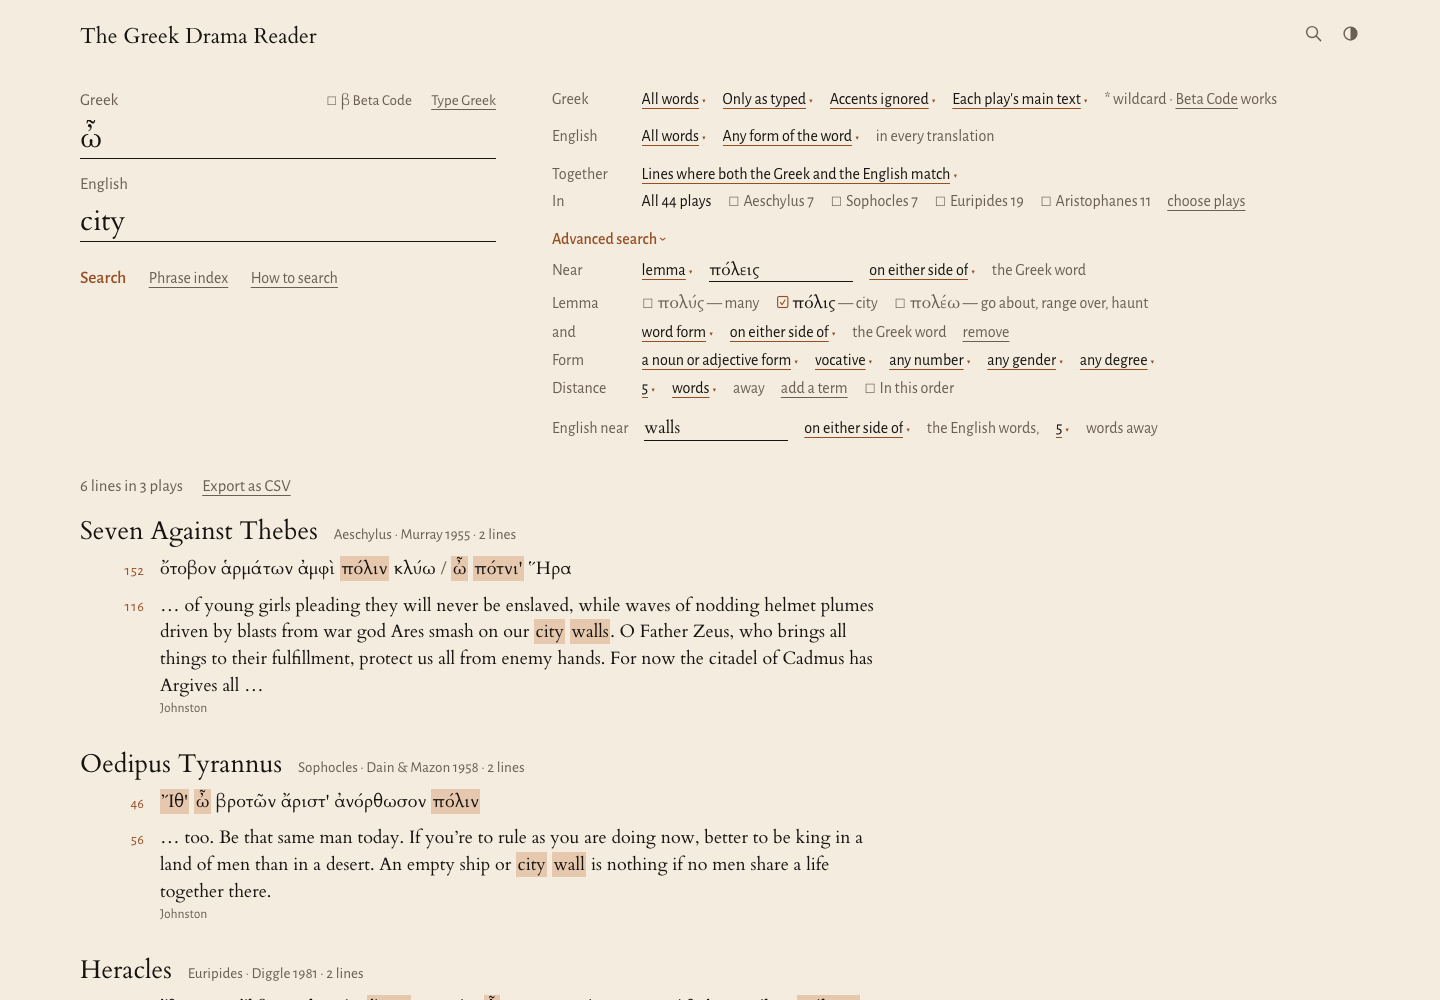
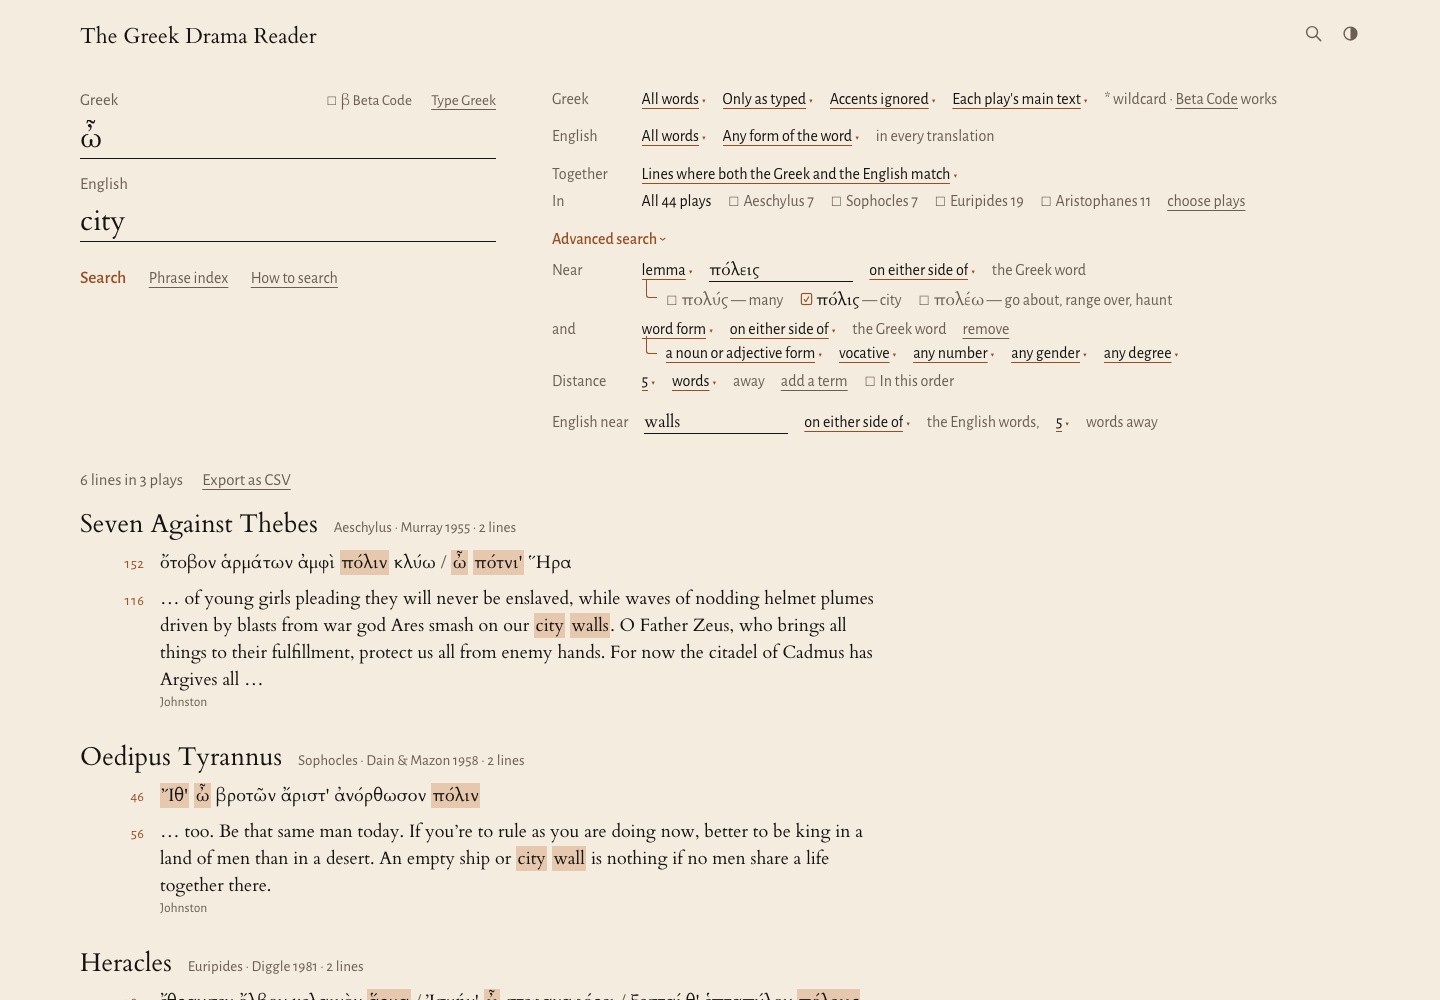
Near: an L ties the headword checks and the grammar choices to "lemma" or "word form"
John (2026-10-26): make clear the checks and the form choices belong to the
chosen kind. The "Lemma" and "Form" labels give way to an L in the clay
dropping from under the choice; wrapped controls stay indented under it.

diff --git a/shared/components/Search.svelte b/shared/components/Search.svelte
@@ -1419,21 +1419,23 @@
             {/if}
           </p>
           {#if nearKind === 'lemma' && nearCands[0]?.cands.length}
-            <p class="row lsj">
-              <span class="mn">Lemma</span>
+            <p class="row lsj sub" role="group" aria-label="Headwords for the lemma">
+              <span class="mn" aria-hidden="true"></span><span class="elbow" aria-hidden="true"></span><span class="sub-items">
               {#each nearCands[0].cands as c (c.fold)}
                 <label class="ck lem" title={c.n ? `${c.n.toLocaleString('en-US')} times in the plays` : undefined}><input type="checkbox" checked={c.on} on:change={() => toggleNearCand(0, c.fold)} /><span lang="grc">{c.heads.join(', ')}</span>{#if c.gloss}<span class="gl">{` — ${c.gloss}`}</span>{/if}</label>
               {/each}
+              </span>
             </p>
           {/if}
           {#if nearKind === 'grammatical'}
-            <p class="row">
-              <span class="mn">Form</span>
+            <p class="row sub" role="group" aria-label="Grammar for the word form">
+              <span class="mn" aria-hidden="true"></span><span class="elbow" aria-hidden="true"></span><span class="sub-items">
               <span class="v"><select aria-label="Form: kind of word" value={shapeClass} on:change={(e) => { shapeClass = e.currentTarget.value as ShapeClass; shape = {}; }}><option value="verb">a verb form</option><option value="noun">a noun or adjective form</option><option value="word">a word class</option></select><i aria-hidden="true">▾</i></span>
               {#each SHAPE_CATS[shapeClass] as cat (cat.key)}
                 <span class="v"><select aria-label={`Form: ${cat.key}`} value={shape[cat.key] ?? ''} on:change={(e) => (shape = { ...shape, [cat.key]: e.currentTarget.value })}><option value="">{cat.any}</option>{#each cat.values as [v, l]}<option value={v}>{l}</option>{/each}</select><i aria-hidden="true">▾</i></span>
               {/each}
               {#if !Object.keys(shapeQuery).length}<span class="mn">choose at least one</span>{/if}
+              </span>
             </p>
           {/if}
           {#if nearKind !== 'none'}
@@ -1449,21 +1451,23 @@
                 <button type="button" class="ln" on:click={() => removeTerm(i)}>remove</button>
               </p>
               {#if t.kind === 'lemma' && nearCands[i + 1]?.cands.length}
-                <p class="row lsj">
-                  <span class="mn">Lemma</span>
+                <p class="row lsj sub" role="group" aria-label={`Term ${i + 3}: headwords for the lemma`}>
+                  <span class="mn" aria-hidden="true"></span><span class="elbow" aria-hidden="true"></span><span class="sub-items">
                   {#each nearCands[i + 1].cands as c (c.fold)}
                     <label class="ck lem" title={c.n ? `${c.n.toLocaleString('en-US')} times in the plays` : undefined}><input type="checkbox" checked={c.on} on:change={() => toggleNearCand(i + 1, c.fold)} /><span lang="grc">{c.heads.join(', ')}</span>{#if c.gloss}<span class="gl">{` — ${c.gloss}`}</span>{/if}</label>
                   {/each}
+                  </span>
                 </p>
               {/if}
               {#if t.kind === 'grammatical'}
-                <p class="row">
-                  <span class="mn">Form</span>
+                <p class="row sub" role="group" aria-label={`Term ${i + 3}: grammar for the word form`}>
+                  <span class="mn" aria-hidden="true"></span><span class="elbow" aria-hidden="true"></span><span class="sub-items">
                   <span class="v"><select aria-label={`Term ${i + 3}: kind of word`} value={t.shapeClass} on:change={(e) => { t.shapeClass = e.currentTarget.value as ShapeClass; t.shape = {}; nearMore = nearMore; }}><option value="verb">a verb form</option><option value="noun">a noun or adjective form</option><option value="word">a word class</option></select><i aria-hidden="true">▾</i></span>
                   {#each SHAPE_CATS[t.shapeClass] as cat (cat.key)}
                     <span class="v"><select aria-label={`Term ${i + 3}: ${cat.key}`} value={t.shape[cat.key] ?? ''} on:change={(e) => { t.shape = { ...t.shape, [cat.key]: e.currentTarget.value }; nearMore = nearMore; }}><option value="">{cat.any}</option>{#each cat.values as [v, l]}<option value={v}>{l}</option>{/each}</select><i aria-hidden="true">▾</i></span>
                   {/each}
                   {#if !Object.keys(shapeQueryOf(t.shapeClass, t.shape)).length}<span class="mn">choose at least one</span>{/if}
+                  </span>
                 </p>
               {/if}
             {/each}
@@ -1700,6 +1704,17 @@
   .adv:focus-visible { outline: 2px solid var(--clay); outline-offset: 2px; }
   @media (prefers-reduced-motion: reduce) { .adv .chev { transition: none; } }
   .adv-rows { display: flex; flex-direction: column; gap: .55rem; }
+  /* A row that belongs to the choice above it ("lemma" or "word form"): an
+     L in the clay drops from under that choice to the row's first control
+     (John, 2026-10-26). The empty label keeps it in the controls' column. */
+  .row.sub { gap: .3rem .9rem; margin-top: -.2rem; flex-wrap: nowrap; }
+  /* Wrapped controls stay indented under the L. */
+  .sub-items { display: flex; flex-wrap: wrap; gap: .3rem 1rem; align-items: baseline; min-width: 0; }
+  .elbow {
+    flex: none; align-self: flex-start; width: .7rem; height: 1.15rem; margin: -.55rem -.35rem 0 .35rem;
+    border-left: 1.5px solid var(--clay-text); border-bottom: 1.5px solid var(--clay-text);
+    border-bottom-left-radius: 3px;
+  }
   .choose { display: grid; grid-template-columns: max-content 1fr; gap: .4rem 1rem; align-items: baseline; margin: .2rem 0 0 5.6rem; }
   .choose .who { font: 400 1.05rem var(--font-english); color: var(--ink); margin: 0; }
   .choose .plays { display: flex; flex-wrap: wrap; gap: .25rem 1rem; margin: 0; font: 400 .95rem var(--font-ui); }
